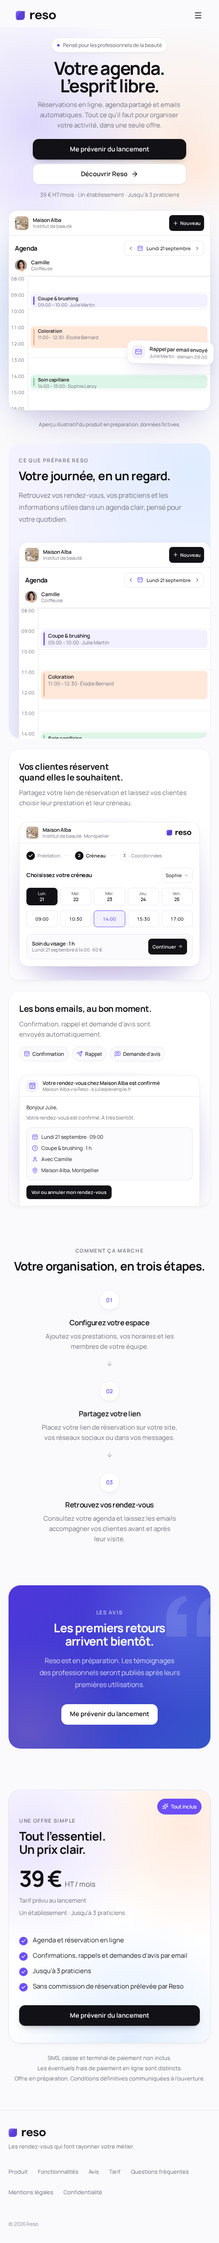
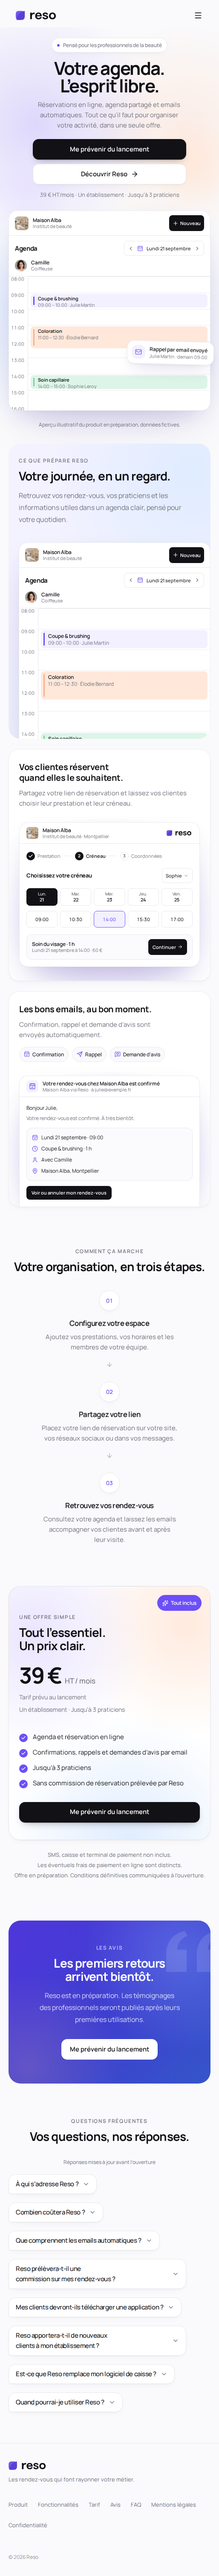
Landing : avis en bandeau défilant et FAQ en bas de page
- Nouvel ordre des sections : tarif, avis, FAQ, pied de page ; navigation
  et pied de page mis à jour (Produit, Fonctionnalités, Tarif, Avis, FAQ).
- Bandeau d'avis en CSS uniquement (deux rangées en sens inverse, pause
  au survol, fondu sur les bords), affiché dès qu'un témoignage réel est
  renseigné dans src/content/fr/testimonials.ts ; le bloc de
  pré-lancement reste affiché tant que la liste est vide.
- FAQ en forme de conversation reprise sur la landing, avec label et
  ancre #faq ; la même FAQ reste sur /preinscription.
- Mouvement réduit : bandeau immobile que l'on fait défiler soi-même.
- Recette landing étendue (35 contrôles), docs mises à jour.

Claude-Session: https://claude.ai/code/session_017mT8YgnnjLqMb8xTZRKu6E

diff --git a/src/components/landing/Testimonials.tsx b/src/components/landing/Testimonials.tsx
@@ -1,5 +1,5 @@
-import Image from "next/image";
 import { Section } from "@/components/ui/Section";
+import { TestimonialMarquee } from "@/components/ui/testimonial-marquee";
 import { offer } from "@/config/offer";
 import { byMode, cta, testimonialsSection } from "@/content/fr/landing";
 import { testimonials } from "@/content/fr/testimonials";
@@ -10,7 +10,8 @@ type Delay = { "--d": string } & React.CSSProperties;
 /**
  * Section « Avis ». Tant qu'aucun témoignage autorisé n'est renseigné dans
  * src/content/fr/testimonials.ts, un bloc de pré-lancement est affiché ;
- * les cartes remplacent automatiquement ce bloc dès le premier avis réel.
+ * un bandeau d'avis défilant remplace automatiquement ce bloc dès le premier
+ * avis réel.
  */
 export function Testimonials() {
   const primary = byMode(cta.primary);
@@ -20,34 +21,15 @@ export function Testimonials() {
     <Section id="avis" labelledBy="avis-title" className="!pt-8 md:!pt-12">
       {hasTestimonials ? (
         <>
-          <div className="reveal mx-auto flex max-w-2xl flex-col items-center gap-3 text-center">
+          <div className="reveal reveal-blur mx-auto flex max-w-2xl flex-col items-center gap-3 text-center">
             <p className="eyebrow">{testimonialsSection.label}</p>
             <h2 id="avis-title" className="heading-2">
               {testimonialsSection.title}
             </h2>
           </div>
-          <ul className="mt-10 grid gap-5 md:grid-cols-2 lg:grid-cols-3">
-            {testimonials.map((item, i) => (
-              <li key={`${item.firstName}-${item.establishment}`} className="reveal card card-hover flex flex-col p-6" style={{ "--d": `${i * 80}ms` } as Delay}>
-                <blockquote className="flex-1 text-[16px] leading-7 text-ink">« {item.quote} »</blockquote>
-                <figcaption className="mt-5 flex items-center gap-3">
-                  {item.photo ? (
-                    <Image src={item.photo} alt="" width={40} height={40} className="size-10 rounded-full object-cover" />
-                  ) : (
-                    <span aria-hidden="true" className="inline-flex size-10 items-center justify-center rounded-full bg-soft-tint text-[13px] font-bold text-brand">
-                      {item.firstName.charAt(0)}
-                    </span>
-                  )}
-                  <div className="leading-tight">
-                    <div className="text-[14px] font-semibold text-ink">{item.firstName}</div>
-                    <div className="text-[13px] text-ink-muted">
-                      {item.establishment} · {item.activity}
-                    </div>
-                  </div>
-                </figcaption>
-              </li>
-            ))}
-          </ul>
+          <div className="reveal mt-10" style={{ "--d": "80ms" } as Delay}>
+            <TestimonialMarquee items={testimonials} label={testimonialsSection.label} />
+          </div>
         </>
       ) : (
         <div className="reveal panel-dark relative mx-auto flex max-w-[1120px] flex-col items-center overflow-hidden rounded-[28px] px-6 py-14 text-center text-white md:rounded-[32px] md:px-12 md:py-20">

diff --git a/src/components/ui/testimonial-marquee.tsx b/src/components/ui/testimonial-marquee.tsx
@@ -1,0 +1,55 @@
+import Image from "next/image";
+import { Marquee } from "@/components/ui/marquee";
+import type { Testimonial } from "@/content/fr/testimonials";
+
+function ReviewCard({ quote, firstName, establishment, activity, photo }: Testimonial) {
+  return (
+    <li className="card flex w-[280px] shrink-0 flex-col gap-3 p-5 md:w-[320px]">
+      <figure className="flex h-full flex-col gap-3">
+        <figcaption className="flex items-center gap-3">
+          {photo ? (
+            <Image src={photo} alt="" width={36} height={36} className="size-9 rounded-full object-cover" />
+          ) : (
+            <span aria-hidden="true" className="inline-flex size-9 shrink-0 items-center justify-center rounded-full bg-soft-tint text-[13px] font-bold text-brand">
+              {firstName.charAt(0)}
+            </span>
+          )}
+          <div className="leading-tight">
+            <div className="text-[14px] font-semibold text-ink">{firstName}</div>
+            <div className="text-[12.5px] text-ink-muted">
+              {establishment} · {activity}
+            </div>
+          </div>
+        </figcaption>
+        <blockquote className="text-[14.5px] leading-6 text-ink">« {quote} »</blockquote>
+      </figure>
+    </li>
+  );
+}
+
+/**
+ * Deux rangées d'avis qui défilent en sens inverse, avec un fondu sur les
+ * bords. En dessous de quatre avis, une seule rangée suffit.
+ */
+export function TestimonialMarquee({ items, label }: { items: Testimonial[]; label: string }) {
+  const twoRows = items.length >= 4;
+  const firstRow = twoRows ? items.slice(0, Math.ceil(items.length / 2)) : items;
+  const secondRow = twoRows ? items.slice(Math.ceil(items.length / 2)) : [];
+
+  return (
+    <div className="relative flex w-full flex-col gap-4" role="group" aria-label={label}>
+      <Marquee duration={`${Math.max(24, firstRow.length * 9)}s`}>
+        {firstRow.map((item, i) => (
+          <ReviewCard key={`${item.firstName}-${item.establishment}-${i}`} {...item} />
+        ))}
+      </Marquee>
+      {secondRow.length > 0 ? (
+        <Marquee reverse duration={`${Math.max(24, secondRow.length * 9)}s`}>
+          {secondRow.map((item, i) => (
+            <ReviewCard key={`${item.firstName}-${item.establishment}-${i}`} {...item} />
+          ))}
+        </Marquee>
+      ) : null}
+    </div>
+  );
+}

diff --git a/src/components/ui/marquee.tsx b/src/components/ui/marquee.tsx
@@ -1,0 +1,35 @@
+import type { ReactNode } from "react";
+import { cn } from "@/lib/cn";
+
+type MarqueeProps = {
+  children: ReactNode;
+  className?: string;
+  /** Défile de gauche à droite au lieu de droite à gauche. */
+  reverse?: boolean;
+  /** Met le défilement en pause au survol. */
+  pauseOnHover?: boolean;
+  /** Durée d'un tour complet (CSS `--duration`). */
+  duration?: string;
+  /** Texte annoncé aux lecteurs d'écran pour la piste. */
+  label?: string;
+  /** Nombre de copies de la piste pour remplir les grands écrans. */
+  repeat?: number;
+};
+
+/**
+ * Bandeau défilant en CSS uniquement (aucune bibliothèque). Le contenu est
+ * dupliqué pour un défilement continu ; la copie est masquée aux lecteurs
+ * d'écran. Avec prefers-reduced-motion, le bandeau devient une rangée
+ * fixe que l'on peut faire défiler au doigt ou à la souris.
+ */
+export function Marquee({ children, className, reverse = false, pauseOnHover = true, duration = "40s", label, repeat = 4 }: MarqueeProps) {
+  return (
+    <div className={cn("marquee", className)} data-reverse={reverse} data-pause={pauseOnHover} style={{ "--duration": duration } as React.CSSProperties} aria-label={label}>
+      {Array.from({ length: Math.max(2, repeat) }, (_, i) => (
+        <ul key={i} className="marquee-track" aria-hidden={i > 0 ? "true" : undefined}>
+          {children}
+        </ul>
+      ))}
+    </div>
+  );
+}

diff --git a/src/app/globals.css b/src/app/globals.css
@@ -591,6 +591,38 @@
     }
   }
 
+  /* Bandeau défilant (avis) : CSS uniquement, pause au survol. */
+  .marquee {
+    --gap: 16px;
+    display: flex;
+    gap: var(--gap);
+    overflow: hidden;
+    padding-block: 4px;
+    mask-image: linear-gradient(to right, transparent, #000 10%, #000 90%, transparent);
+  }
+  .marquee-track {
+    display: flex;
+    flex-shrink: 0;
+    align-items: stretch;
+    gap: var(--gap);
+    animation: marquee var(--duration, 40s) linear infinite;
+  }
+  .marquee[data-reverse="true"] .marquee-track {
+    animation-direction: reverse;
+  }
+  .marquee[data-pause="true"]:hover .marquee-track,
+  .marquee[data-pause="true"]:focus-within .marquee-track {
+    animation-play-state: paused;
+  }
+  @keyframes marquee {
+    from {
+      transform: translateX(0);
+    }
+    to {
+      transform: translateX(calc(-100% - var(--gap)));
+    }
+  }
+
   /* FAQ : la réponse se déplie. */
   html.js .faq-panel {
     display: grid;
@@ -664,6 +696,17 @@
     }
     .product-perspective > .product-window {
       transform: none;
+    }
+    /* Bandeau d'avis : rangée fixe que l'on fait défiler soi-même. */
+    .marquee {
+      overflow-x: auto;
+      mask-image: none;
+    }
+    .marquee-track {
+      animation: none;
+    }
+    .marquee-track[aria-hidden="true"] {
+      display: none;
     }
   }
 

diff --git a/src/content/fr/landing.ts b/src/content/fr/landing.ts
@@ -27,8 +27,9 @@ export const nav = {
   links: [
     { href: "/#produit", label: "Produit" },
     { href: "/#fonctionnalites", label: "Fonctionnalités" },
-    { href: "/#avis", label: "Avis" },
     { href: "/#tarif", label: "Tarif" },
+    { href: "/#avis", label: "Avis" },
+    { href: "/#faq", label: "FAQ" },
   ],
   skipToContent: "Aller au contenu",
   openMenu: "Ouvrir le menu",
@@ -241,6 +242,7 @@ const faqLive: FaqItem[] = [
 ];
 
 export const faq = {
+  label: "Questions fréquentes",
   title: "Vos questions, nos réponses.",
   /** Petit horodatage de la conversation. */
   timestamp: { prelaunch: "Réponses mises à jour avant l’ouverture", live: "Réponses mises à jour régulièrement" } satisfies ByMode<string>,
@@ -297,12 +299,12 @@ export const footer = {
   links: [
     { href: "/#produit", label: "Produit" },
     { href: "/#fonctionnalites", label: "Fonctionnalités" },
-    { href: "/#avis", label: "Avis" },
     { href: "/#tarif", label: "Tarif" },
+    { href: "/#avis", label: "Avis" },
+    { href: "/#faq", label: "FAQ" },
   ],
   contactLabel: "Contact",
   legalLinks: [
-    { href: "/preinscription#faq", label: "Questions fréquentes" },
     { href: "/mentions-legales", label: "Mentions légales" },
     { href: "/confidentialite", label: "Confidentialité" },
   ],

diff --git a/src/components/landing/Faq.tsx b/src/components/landing/Faq.tsx
@@ -5,11 +5,14 @@ import { byMode, faq } from "@/content/fr/landing";
 export function Faq() {
   const items = byMode(faq.items).map((item, index) => ({ id: index + 1, ...item }));
   return (
-    <Section id="faq" labelledBy="faq-title" className="!pt-8 md:!pt-14">
+    <Section id="faq" labelledBy="faq-title" className="!pt-4 md:!pt-8">
       <div className="mx-auto max-w-2xl">
-        <h2 id="faq-title" className="heading-2 mb-8 text-center md:mb-10">
-          {faq.title}
-        </h2>
+        <div className="reveal reveal-blur mb-8 flex flex-col items-center gap-3 text-center md:mb-10">
+          <p className="eyebrow">{faq.label}</p>
+          <h2 id="faq-title" className="heading-2">
+            {faq.title}
+          </h2>
+        </div>
         <FaqAccordion data={items} timestamp={byMode(faq.timestamp)} className="max-w-[700px]" />
       </div>
     </Section>

diff --git a/src/app/page.tsx b/src/app/page.tsx
@@ -1,4 +1,5 @@
 import { redirect } from "next/navigation";
+import { Faq } from "@/components/landing/Faq";
 import { Features } from "@/components/landing/Features";
 import { Footer } from "@/components/landing/Footer";
 import { Header } from "@/components/landing/Header";
@@ -45,8 +46,9 @@ export default async function HomePage({ searchParams }: { searchParams: Promise
         <Hero />
         <Features />
         <HowItWorks />
-        <Testimonials />
         <Pricing />
+        <Testimonials />
+        <Faq />
       </main>
       <Footer />
       <RevealObserver />

diff --git a/docs/DESIGN.md b/docs/DESIGN.md
@@ -8,15 +8,16 @@ La cible reste le professionnel de la beauté, seul ou en petite équipe. L’ac
 
 ## Composition
 
-1. **Navigation** (`src/components/landing/Header.tsx`) : barre qui se transforme au scroll. En haut de page, elle occupe toute la largeur sur fond transparent ; après 8 px, elle devient une capsule flottante blanche translucide avec flou (`backdrop-filter`), bordure très fine et ombre douce ; en défilant vers le bas au-delà de 160 px, elle se resserre sur le logo et le CTA (les liens réapparaissent dès que l’on remonte). Le lien de la section visible est souligné (`aria-current="location"`). Même largeur que le contenu (1120 px), logo à gauche, liens Produit / Fonctionnalités / Avis / Tarif, CTA noir à droite, menu tactile sur téléphone. Les ancres portent une marge (`--nav-offset`) : aucun titre de section ne passe sous la barre.
+1. **Navigation** (`src/components/landing/Header.tsx`) : barre qui se transforme au scroll. En haut de page, elle occupe toute la largeur sur fond transparent ; après 8 px, elle devient une capsule flottante blanche translucide avec flou (`backdrop-filter`), bordure très fine et ombre douce ; en défilant vers le bas au-delà de 160 px, elle se resserre sur le logo et le CTA (les liens réapparaissent dès que l’on remonte). Le lien de la section visible est souligné (`aria-current="location"`). Même largeur que le contenu (1120 px), logo à gauche, liens Produit / Fonctionnalités / Tarif / Avis / FAQ, CTA noir à droite, menu tactile sur téléphone. Les ancres portent une marge (`--nav-offset`) : aucun titre de section ne passe sous la barre.
 2. **Premier écran** : dégradé mesh très doux (lavande à gauche, pêche à droite, bleu glacé en bas, centre blanc) et deux halos en simples dégradés radiaux, sans filtre de flou. Badge, titre en deux lignes (42 → 76 px, graisse 700, interligne 0,98), description, CTA noir avec légère profondeur, bouton secondaire blanc, ligne de réassurance. La fenêtre blanche de l’agenda sort du dégradé, qui se fond vers le fond de page (bordure fine, coins de 24 px, ombre diffuse, inclinaison de 3° à partir de 1024 px). Sur téléphone, l’agenda commence vers 480 px et les boutons sont pleine largeur.
 3. **Cartes flottantes** (`src/components/landing/FloatCard.tsx`) : « Nouvelle réservation en ligne » et « Rappel par email envoyé » devant l’agenda, puis une pastille par bloc produit. Fond blanc, bordure légère, ombre fine, icône colorée, rotation de 1 à 2°, dérive très lente de 5 px. Aucun texte manuscrit.
 4. **Aperçu de l’agenda** (`src/components/previews/AgendaPreview.tsx`) : HTML/CSS uniquement, données fictives (Maison Alba, Camille et ses clientes). Trois praticiens à partir de 576 px de largeur de cadre, la journée de Camille seule en dessous et dans la vue rapprochée. Rendez-vous lavande, pêche et menthe avec barre colorée, grille fine, textes de 11 px minimum, photo du salon et portrait fictif de Camille.
 5. **Fonctionnalités** : un grand bloc éditorial sur fond lavande → bleu glacé (label, titre, texte, journée de Camille qui dépasse du conteneur, pastille « 3 rendez-vous aujourd’hui »), puis deux cartes « spotlight » (`src/components/ui/SpotlightCard.tsx`) : un halo lavande suit le pointeur sur la carte survolée. Réservation en ligne (halo pêche) et emails (chips Confirmation / Rappel / Demande d’avis, email de confirmation, halo bleu glacé).
 6. **Comment ça marche** (`src/components/landing/HowItWorks.tsx`, ancre `#etapes`) : trois étapes numérotées 01 → 03 reliées par un trait fin (Configurez votre espace, Partagez votre lien, Retrouvez vos rendez-vous), sur fond de page.
-7. **Avis** : section dédiée avant le tarif, sur un dégradé violet profond → bleu, texte blanc, grande citation abstraite. Tant que `src/content/fr/testimonials.ts` est vide, le bloc de pré-lancement s’affiche ; dès qu’un témoignage autorisé est ajouté (citation, prénom, établissement, activité, photo facultative), des cartes le remplacent automatiquement.
-8. **Tarif** : grande carte horizontale sur fond lavande / bleu / pêche très doux, pastille « Tout inclus » ; à gauche label, titre, prix, périmètre ; à droite quatre inclusions et le CTA. Précisions de transparence en dessous.
-9. **Pied de page** léger : logo, liens de sections et liens légaux. La FAQ et le formulaire de préinscription vivent sur `/preinscription`, ouverte par tous les CTA avec les paramètres de campagne.
+7. **Tarif** : grande carte horizontale sur fond lavande / bleu / pêche très doux, pastille « Tout inclus » ; à gauche label, titre, prix, périmètre ; à droite quatre inclusions et le CTA. Précisions de transparence en dessous.
+8. **Avis** : après le tarif, sur un dégradé violet profond → bleu, texte blanc, grande citation abstraite. Tant que `src/content/fr/testimonials.ts` est vide, ce bloc de pré-lancement s’affiche ; dès qu’un témoignage autorisé est ajouté (citation, prénom, établissement, activité, photo facultative), un bandeau d’avis (`src/components/ui/testimonial-marquee.tsx`) le remplace automatiquement : deux rangées de cartes qui défilent en sens inverse (une seule rangée sous quatre avis), pause au survol, fondu sur les bords, initiale en pastille lavande quand il n’y a pas de photo.
+9. **FAQ** en bas de page (`src/components/landing/Faq.tsx`, ancre `#faq`), en forme de conversation : la question est un message reçu, la réponse un message envoyé en bulle sombre qui se déplie en dessous, avec un horodatage. La même FAQ accompagne le formulaire sur `/preinscription`.
+10. **Pied de page** léger : logo, liens de sections et liens légaux. Le formulaire de préinscription vit sur `/preinscription`, ouverte par tous les CTA avec les paramètres de campagne.
 
 ## Tokens
 
@@ -54,13 +55,14 @@ CSS et IntersectionObserver uniquement, aucune bibliothèque. Activé par `html.
 - Cartes flottantes : dérive très lente de 5 px (7 s, aller-retour), rotation fixe de 1 à 2°.
 - Arrivée du premier écran : 12 px, 600 ms. Le titre et la description apparaissent mot par mot (`src/components/ui/BlurWords.tsx`) : flou de 6 px vers net, 10 px vers le haut, 560 ms par mot, 45 ms entre les mots du titre et 22 ms entre ceux de la description. Les titres de section (`SectionHeading`) utilisent le même flou à l’apparition (`.reveal-blur`).
 - Navigation : transition de 320 ms entre les trois états (pleine largeur, capsule, capsule compacte), calculée dans `requestAnimationFrame`.
+- Bandeau d’avis : défilement CSS linéaire continu (9 s par carte, 24 s minimum), pause au survol et au focus ; en mouvement réduit, rangée fixe que l’on fait défiler soi-même.
 - Cartes spotlight : halo radial de 360 px qui suit le pointeur (`--sx`/`--sy`), fondu de 400 ms ; sans pointeur fin (tactile) rien ne se passe.
 - Démonstration unique de l’agenda (`.demo-stage`), jouée quand il devient visible : le rendez-vous de Julie Martin apparaît et se pose dans la grille (650 ms), puis la carte « Rappel par email envoyé » apparaît (500 ms). Rien ne boucle.
 - Petit sursaut de l’enveloppe de la carte email à l’apparition.
 - Boutons soulevés de 2 px, cartes de 3 px, ombre légèrement renforcée au survol.
-- `prefers-reduced-motion: reduce` : état final immédiat, aucune transition, aucune dérive, pas d’inclinaison de la fenêtre, mots nets sans flou, navigation sans transition, halo spotlight désactivé.
+- `prefers-reduced-motion: reduce` : état final immédiat, aucune transition, aucune dérive, pas d’inclinaison de la fenêtre, mots nets sans flou, navigation sans transition, halo spotlight désactivé, bandeau d’avis immobile.
 
-Inspirations : les motifs « Morphing Scroll Navbar », « Text Blur Reveal », « Soft Blur In », « Spotlight Card » et « How It Works Steps » publiés sur 21st.dev ont servi de référence ; ils ont été réécrits en CSS et React natifs (aucune dépendance ajoutée, aucun code de bibliothèque tierce).
+Inspirations : les motifs « Morphing Scroll Navbar », « Text Blur Reveal », « Soft Blur In », « Spotlight Card », « How It Works Steps », « FAQ Chat Accordion » et « Testimonial Marquee » publiés sur 21st.dev ont servi de référence ; ils ont été réécrits en CSS et React natifs (aucune dépendance ajoutée, aucun code de bibliothèque tierce).
 
 ## Accessibilité
 

diff --git a/docs/recette-landing.md b/docs/recette-landing.md
@@ -7,7 +7,7 @@
 - `npm run check` : ESLint, TypeScript et les tests Vitest passent.
 - `npm run build` : compilation de production réussie.
 - `node scripts/screenshots.mjs --docs` (Chromium, serveur de production local) : 320 × 568, 390 × 844, 514 × 1536, 768 × 1024, 1024 × 768, 1440 × 900 et 1920 × 1080, plus 375 et 430 px ; aucun défilement horizontal, aucune erreur JavaScript.
-- `node scripts/recette-landing.mjs` : un seul `h1` et hiérarchie des titres ; ancres `#produit`, `#fonctionnalites`, `#avis`, `#tarif` ; liens de navigation identiques depuis `/` et `/preinscription` ; le titre d’une section reste sous la barre après un clic sur une ancre ; cinq CTA vers `/preinscription` avec conservation des paramètres UTM ; démonstration de l’agenda terminée à l’état final ; état final immédiat avec `prefers-reduced-motion` ; menu mobile (ouverture, fermeture avec Échap, retour du focus) ; agenda mobile entre 400 et 500 px du haut (492 px à 390 px de large) ; éléments flottants non coupés ; cibles tactiles ≥ 44 px ; préinscription : erreur associée au champ email et focus, confirmation après réponse 202, FAQ et mentions commerciales présentes, lien de retour ; sans JavaScript : contenu essentiel et aperçus visibles, réponses FAQ lisibles, POST natif puis redirection 303 vers `/preinscription?inscription=ok` ; anciennes URL `/?inscription=…` redirigées.
+- `node scripts/recette-landing.mjs` (35 contrôles) : un seul `h1` et hiérarchie des titres ; ancres `#produit`, `#fonctionnalites`, `#tarif`, `#avis`, `#faq` ; liens de navigation identiques depuis `/` et `/preinscription` ; le titre d’une section reste sous la barre après un clic sur une ancre ; cinq CTA vers `/preinscription` avec conservation des paramètres UTM ; démonstration de l’agenda terminée à l’état final ; état final immédiat avec `prefers-reduced-motion` ; menu mobile (ouverture, fermeture avec Échap, retour du focus) ; agenda mobile entre 400 et 500 px du haut (492 px à 390 px de large) ; éléments flottants non coupés ; cibles tactiles ≥ 44 px ; préinscription : erreur associée au champ email et focus, confirmation après réponse 202, FAQ et mentions commerciales présentes, lien de retour ; sans JavaScript : contenu essentiel et aperçus visibles, réponses FAQ lisibles, POST natif puis redirection 303 vers `/preinscription?inscription=ok` ; anciennes URL `/?inscription=…` redirigées.
 - Emails et stockage de recette : `EMAIL_PROVIDER=console` et base locale ; aucun envoi réel. En production, sans base ou sans fournisseur email configuré, l’API répond 503 et le formulaire affiche une erreur : aucun faux envoi.
 
 - Navigation « morphing » (capture manuelle Chromium 1440 px) : `is-floating` après 8 px de scroll, `is-compact` en descendant au-delà de 160 px, liens restaurés en remontant, lien actif `aria-current="location"` sur la section visible ; le titre Tarif reste sous la barre après un clic sur l’ancre (`navBottom` 72 px, `titleTop` 229 px).
